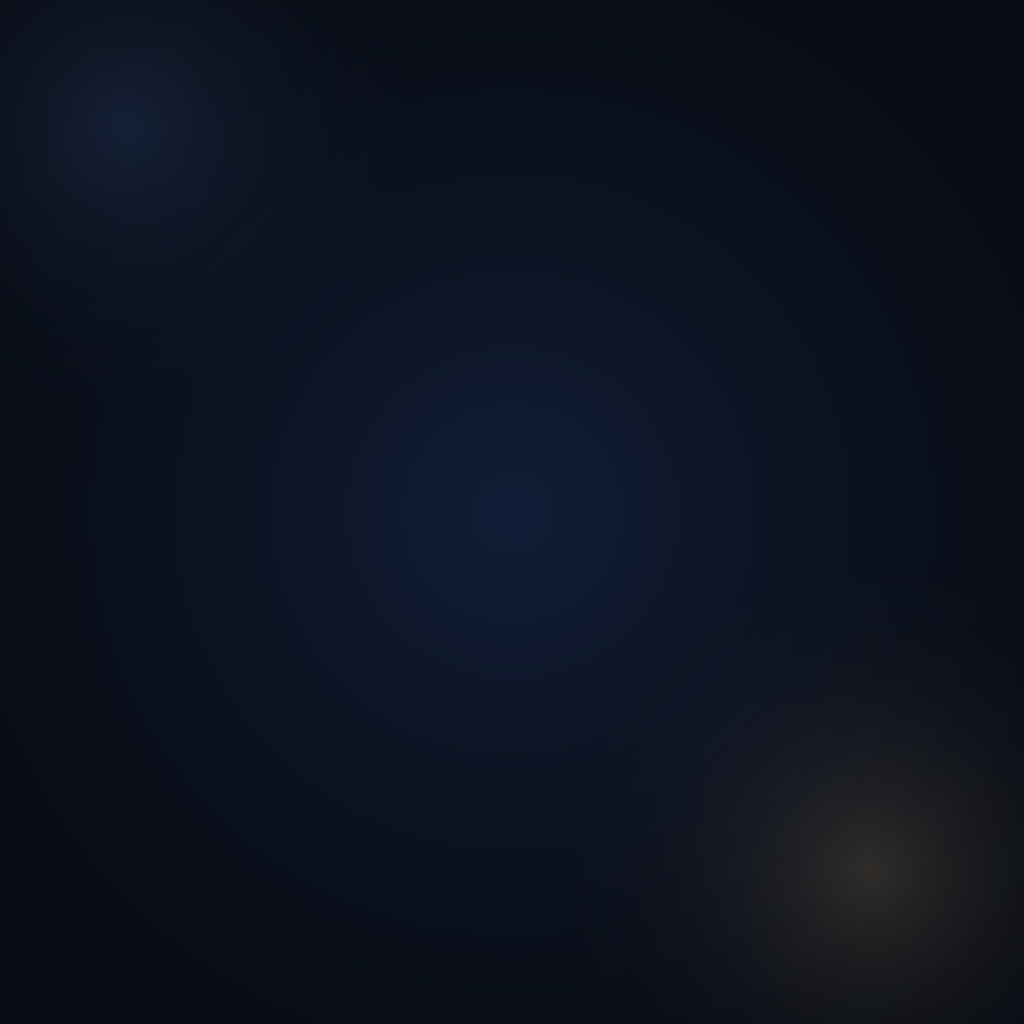
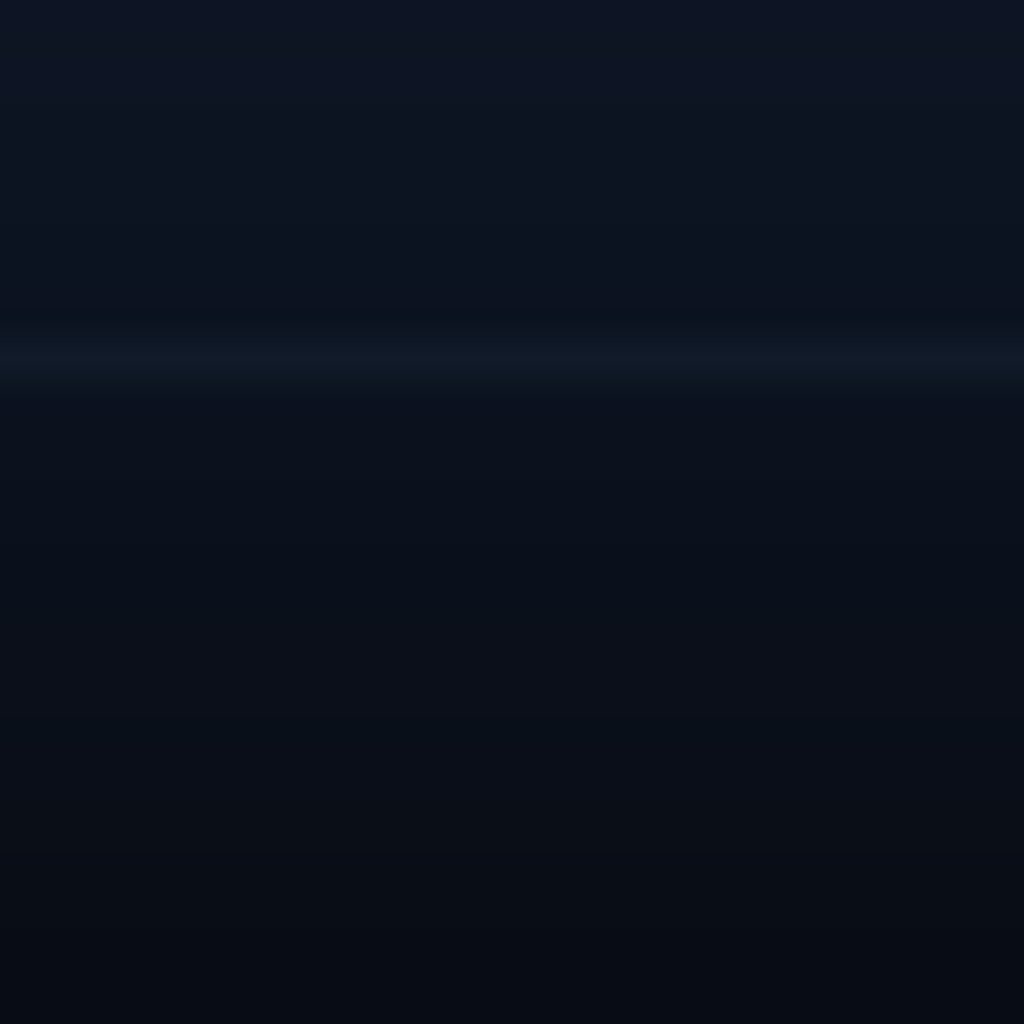
Timer, moon parallax, live-stream media session, new cover art
Timer: replace chip-picker with +15m/+30m/−30m/✕ adjust buttons;
time accumulates and can be adjusted while running

Moon: dimmed to 55% opacity, repositioned to top-right, scrolls off
screen as user scrolls down via --moon-scroll CSS variable

Media session: setPositionState(Infinity) + clear seek handlers so
Samsung/iOS notification shows play/stop only, no scrubber or duration

Cover art: regenerated as clean dark linear gradient (no radial blobs
that could look like a moon at low resolution)

https://claude.ai/code/session_01QMdN6VurCqPPoJsyr28iYo

Changed region(s): [[0.7812, 0.7812, 0.9062, 0.9375], [0.4375, 0.4688, 0.5625, 0.5625]]

diff --git a/src/App.tsx b/src/App.tsx
@@ -5,15 +5,6 @@ import type { Category } from './data';
 import { useAudioMixer } from './hooks/useAudioMixer';
 import type { Preset } from './types';
 
-const TIMER_OPTIONS = [15, 30, 45, 60, 90, 120] as const;
-
-function timerLabel(m: number) {
-  if (m < 60) return `${m}m`;
-  const h = Math.floor(m / 60);
-  const rem = m % 60;
-  return rem ? `${h}h${rem}` : `${h}h`;
-}
-
 function sliderBg(value: number, max = 1) {
   const pct = (value / max) * 100;
   return {
@@ -100,9 +91,17 @@ const isPlaying = activeSounds.length > 0 && !isPaused;
       ],
     });
     navigator.mediaSession.playbackState = isPlaying ? 'playing' : 'paused';
-    navigator.mediaSession.setActionHandler('play', () => { playAllActive(); setIsPaused(false); });
-    navigator.mediaSession.setActionHandler('pause', () => { pauseAll(); setIsPaused(true); });
-    navigator.mediaSession.setActionHandler('stop', () => { stopAll(); setIsPaused(false); });
+    navigator.mediaSession.setActionHandler('play',  () => { playAllActive(); setIsPaused(false); });
+    navigator.mediaSession.setActionHandler('pause', () => { pauseAll();      setIsPaused(true); });
+    navigator.mediaSession.setActionHandler('stop',  () => { stopAll();       setIsPaused(false); });
+    // Live-stream mode: no scrubber or duration shown
+    try { navigator.mediaSession.setActionHandler('seekbackward', null); } catch { /* ok */ }
+    try { navigator.mediaSession.setActionHandler('seekforward',  null); } catch { /* ok */ }
+    try { navigator.mediaSession.setActionHandler('seekto',       null); } catch { /* ok */ }
+    try {
+      (navigator.mediaSession as MediaSession & { setPositionState?: (s: object) => void })
+        .setPositionState?.({ duration: Infinity, playbackRate: 1, position: 0 });
+    } catch { /* ok */ }
   }, [isPlaying, activeSounds, playAllActive, pauseAll, stopAll]);
 
   const handleMasterToggle = useCallback(async () => {
@@ -122,7 +121,6 @@ const isPlaying = activeSounds.length > 0 && !isPaused;
   }, [soundState, isPaused, toggleSound]);
 
   // Sleep timer — counts down playing-time only (pauses when audio pauses)
-  const [activeTimer, setActiveTimer] = useState<number | null>(null);
   const [secondsLeft, setSecondsLeft] = useState<number | null>(null);
 
   // Tick only while playing
@@ -139,20 +137,18 @@ const isPlaying = activeSounds.length > 0 && !isPaused;
     if (secondsLeft === 0) {
       stopAll();
       setIsPaused(false);
-      setActiveTimer(null);
       setSecondsLeft(null);
     }
   }, [secondsLeft, stopAll]);
 
-  const handleTimerClick = (minutes: number) => {
-    if (activeTimer === minutes) {
-      setActiveTimer(null);
-      setSecondsLeft(null);
-    } else {
-      setActiveTimer(minutes);
-      setSecondsLeft(minutes * 60);
-    }
+  const handleTimerAdjust = (minutes: number) => {
+    setSecondsLeft((prev) => {
+      const next = (prev ?? 0) + minutes * 60;
+      return next <= 0 ? null : next;
+    });
   };
+
+  const handleTimerReset = () => setSecondsLeft(null);
 
   const visibleSounds = category === 'All'
     ? SOUND_LIBRARY
@@ -163,13 +159,18 @@ const isPlaying = activeSounds.length > 0 && !isPaused;
       ? activeSounds.length
       : activeSounds.filter((s) => s.category === cat).length;
 
+  const handleAppScroll = useCallback((e: React.UIEvent<HTMLDivElement>) => {
+    const scrollY = (e.target as HTMLDivElement).scrollTop;
+    document.documentElement.style.setProperty('--moon-scroll', `${scrollY}px`);
+  }, []);
+
   return (
     <>
       <div className="bg-layer" />
       <div className="stars" />
       <div className="moon" />
 
-      <div className="app">
+      <div className="app" onScroll={handleAppScroll}>
         <header>
           <div className="wordmark">drift</div>
           <div className="tagline">sleep sounds</div>
@@ -191,16 +192,14 @@ const isPlaying = activeSounds.length > 0 && !isPaused;
 
             <div className="timers">
               <div className="timer-chips">
-                {TIMER_OPTIONS.map((m) => (
-                  <button
-                    key={m}
-                    type="button"
-                    className={`timer-btn${activeTimer === m ? ' active' : ''}`}
-                    onClick={() => handleTimerClick(m)}
-                  >
-                    {timerLabel(m)}
-                  </button>
-                ))}
+                <button type="button" className="timer-btn" onClick={() => handleTimerAdjust(-30)}>−30m</button>
+                <button type="button" className="timer-btn" onClick={() => handleTimerAdjust(15)}>+15m</button>
+                <button type="button" className="timer-btn" onClick={() => handleTimerAdjust(30)}>+30m</button>
+                <button
+                  type="button"
+                  className={`timer-btn timer-reset${secondsLeft === null ? ' dim' : ''}`}
+                  onClick={handleTimerReset}
+                >✕</button>
               </div>
               <div className="timer-countdown">
                 {secondsLeft !== null ? formatCountdown(secondsLeft) : ''}

diff --git a/src/index.css b/src/index.css
@@ -75,11 +75,13 @@ html, body {
 
 .moon {
   position: fixed;
-  top: 18%; right: 6%;
-  width: 56px; height: 56px;
+  top: calc(7% - var(--moon-scroll, 0px) * 0.7);
+  right: 4%;
+  width: 52px; height: 52px;
   border-radius: 50%;
-  background: radial-gradient(circle at 38% 38%, #fdf6e0 0%, #dfc98a 55%, #b89a6a 100%);
-  box-shadow: 0 0 28px rgba(184,154,106,0.22), 0 0 64px rgba(184,154,106,0.08);
+  background: radial-gradient(circle at 38% 38%, #e8dfc0 0%, #c8ae72 55%, #a0804a 100%);
+  box-shadow: 0 0 18px rgba(184,154,106,0.13), 0 0 40px rgba(184,154,106,0.05);
+  opacity: 0.55;
   z-index: 1;
   animation: moonDrift 14s ease-in-out infinite;
 }
@@ -285,6 +287,10 @@ header {
   border-color: rgba(184,154,106,0.45);
   color: var(--warm);
   background: var(--warm-glow);
+}
+.timer-reset.dim {
+  opacity: 0.28;
+  pointer-events: none;
 }
 .timer-countdown {
   font-size: 10px;
